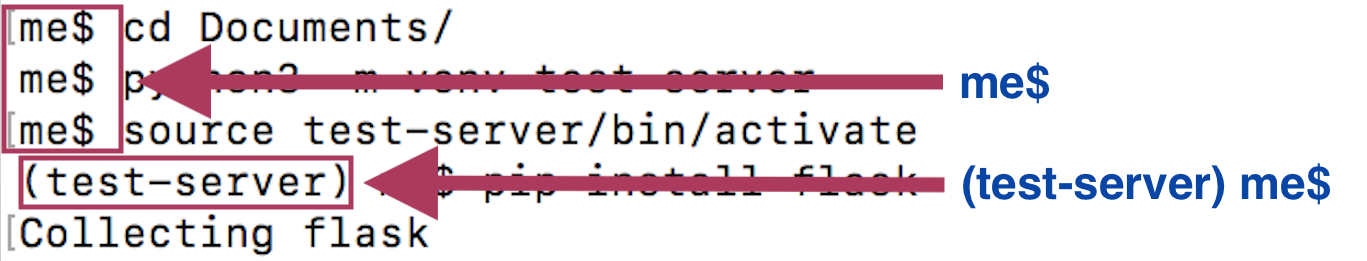
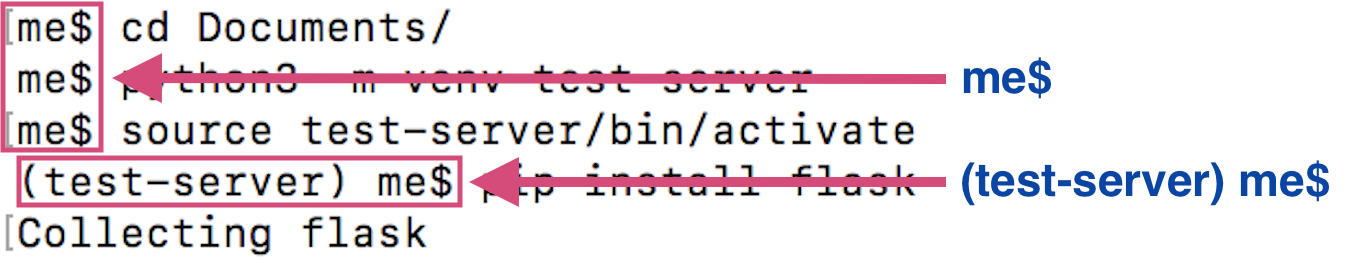
http blog 2 release 1

Changed region(s): [[0.0, 0.0, 0.9832, 0.9808]]

diff --git a/courses.html b/courses.html
@@ -21,10 +21,13 @@ title: Courses
 		<h2>Completed courses</h2>
 	</div>
 		<div class="course">
+			<h3><a href="https://www.codeschool.com/courses/front-end-foundations" target="_blank">Try Docker</a>, Docker introduction, Codeschool (online), completed 5 March 2018</h3>
+			<p class="course-summary">Gives a good introduction to the basics of Docker. How to use images to build Docker containers and configure the images with Dockerfiles in the command line. The next step is to <a href="https://www.codeschool.com/screencasts/build-a-node-app-with-postgres-and-docker">build a Node App with Postgres and Docker</a>.</p>	
+		</div>
+		<div class="course">
 			<h3><a href="https://www.codeschool.com/courses/flying-through-python">Flying Through Python</a>, Python, Codeschool (online), completed 3 April 2018</h3>
-			<p class="course-summary">One of the things I find really useful about Codeschool is the screencasts that you can follow and work through once you have completed the courses. Each one is roughly an hour long and works through a project so you can consolidate all the knowledge that you just learnt in a useful way. The Python one was no exception and within a couple of hours I had built a <a href="https://www.codeschool.com/screencasts/build-a-python-weather-forecast-mailer"> Weather Forecast Mailer</a>, which can be viewed on my <a href="https://github.com/jenjnif">GitHub account</a>.</p>	
-			</div>
-
+			<p class="course-summary">One of the things I find really useful about Codeschool is the screencasts that you can follow and work through once you have completed the courses. Each one is roughly an hour long and works through a project so you can consolidate all the knowledge that you just learnt in a useful way. The Python one was no exception and within a couple of hours I had built a <a href="https://www.codeschool.com/screencasts/build-a-python-weather-forecast-mailer"> Weather Forecast Mailer</a>, which can be viewed on my <a href="https://github.com/jenjnif">GitHub account</a>.</p>
+		</div>
 		<div class="course">
 			<h3><a href="https://www.codeschool.com/courses/front-end-foundations" target="_blank">Front-End Foundations</a>, HTML and CSS, Codeschool (online), completed 3 March 2018</h3>
 			<p class="course-summary"></p>	

diff --git a/index.html b/index.html
@@ -5,7 +5,7 @@ title: Home Page
 	
 
 	<div class="tagline">
-		<h2 class="tagline-text">I am a junior developer digging into new skills and learning each day. I am currently developing my python skills and making websites using JavaScript and html/css and playing with my new toy - a Raspberry Pi. While I am not on my computer I love spending time in the outdoors climbing, surrounded by mountains and wildlife.</h2>
+		<h2 class="tagline-text">I am a junior developer digging into new skills and learning each day. I am currently developing my python skills and making websites using JavaScript and HTML/CSS and playing with my new toy - a Raspberry Pi. While I am not on my computer I love spending time in the outdoors climbing, surrounded by mountains and wildlife.</h2>
 	</div>
 	<div class="blog">
 		{% for post in site.posts limit: 1 %}

diff --git a/_layouts/default.html b/_layouts/default.html
@@ -1,11 +1,11 @@
 <!DOCTYPE html>
 <head>
-   <link rel="stylesheet" href="/styles.css">
-   <meta http-equiv="content-type" content="text/html; charset=utf-8" />
-   <link href="https://fonts.googleapis.com/css?family=Raleway" rel="stylesheet">
-   <title>{{ page.title }}</title>
-
+  <meta http-equiv="content-type" content="text/html; charset=utf-8" />
+  <link href="https://fonts.googleapis.com/css?family=Raleway" rel="stylesheet">
+  <link rel="stylesheet" href="/styles.css">
+  <title>{{ page.title }}</title>
 </head>
+
 <body>
     <header>
       <h1>Jen Jones</h1>

diff --git a/styles.css b/styles.css
@@ -27,7 +27,7 @@ h2 {
 }
 h3 {
 	font-size: 22px;
-	font-weight: 400;
+	font-weight: 700;
 	margin: 0 auto;
 }
 h4 {
@@ -75,9 +75,11 @@ pre {
 	margin: 0 auto 40px auto;
 	padding-bottom: 20px;
 	border-bottom: 1px solid #555555;
+	font-weight: normal;
 }
 .tagline-text {
-	font-weight: 100;
+	font-weight: 200;
+	font-style: normal;
 
 }
 .skills, .course-list {

diff --git a/_posts/2018-03-27-http_connection_blog_part2.md b/_posts/2018-03-27-http_connection_blog_part2.md
@@ -10,7 +10,7 @@ excerpt_image: images/4-http/http-diagram-annotated.JPG
 The second in my series of HTTP request articles walks through how to build a very simple example of an HTTP request to get a better understanding of how they work.
 <!--more-->
 
-HTTP series posts:
+Other HTTP series posts:
 
 1.	<a href="/2018/03/22/http_basics_part1_blog.html">What is an HTTP request and how do basic HTTP requests work?</a>
 
@@ -23,7 +23,7 @@ HTTP series posts:
 <br>
 ### Quick recap
 
-So, let's just quickly recap on how basic HTTP requests work. HTTP GET requests aquire data from the server and send it back to the browser/client:
+So, to quickly recap on how basic HTTP requests work. HTTP GET requests aquire data from the server and send it back to the browser/client:
 
 <p align="center"><img src="/images/4-http/http-diagram-annotated.JPG"
      alt="http diagram" width="90%" /></p>
@@ -37,7 +37,9 @@ So, let's just quickly recap on how basic HTTP requests work. HTTP GET requests 
 <br>
 ### Creating a virtual environment and installing Flask
 
-The first thing I did was to create a virtual environment and install Flask within it so all the dependences can work together but are isolated from other python programmes that I might want to run. Creating this local environment is like a little bubble of programmes and files separated away from the rest of the computer.
+In order to build an example of an HTTP request it is a good idea to create an isolated Python development environment to work in. This will keep it seperate from any other libraries already installed. The environment can then be kept for further development work or easily deleted. Creating this local environment is like a little bubble of programmes and files separated away from the rest of the computer.
+
+I created a virtual environment using the 'venv' module and installed Flask (a microframework for Python which I used to facilitate HTTP requests) within it so all the dependences can work together but are isolated from other python programmes that I might want to run.
 
 Steps on the command line:
 
@@ -63,14 +65,6 @@ Then, to activate the virtual environment in the command line:
 
 This changes the prompt to: (virtualenvironment-name) $
 
-In my case from this:
-
-	me$
-
-to this:
-
-	(test-server) me$
-
 <p align="center"><img src="/images/4-http/prompt-name.png"
      alt="prompt name change" width="70%" /></p>
 
@@ -78,20 +72,19 @@ To install Flask and all it’s dependencies within the virtual environment:
 
 	(test-server) $ pip install flask
 
+<p align="center"><img src="/images/4-http/flaskdownload.png" alt="command to download flask" width="70%" /></p>
+
 <br>
 ### Using Flask
 
-<p align="center"><img src="/images/4-http/flaskdownload.png"
-     alt="command to download flask" width="70%" /></p>
+To set up Flask simply follow these steps which can be found on the <a href="http://flask.pocoo.org/">Flask site</a>:  
 
-Then follow the steps which can be found on the <a href="http://flask.pocoo.org/">Flask site</a>:  
-
-Create a python file - I called mine test-python.py - containing the following:
+Firstly, create a python file - I called mine test-python.py - containing the following:
 
 <p align="center"><img src="/images/4-http/python-file.png"
      alt="Python code closeup" width="70%" /></p>
 
-Create a file containing shell script (I called mine test-shellscsript.sh) containing the file name for your python file:
+Then create a file containing shell script (I called mine test-shellscsript.sh) containing the file name for your python file:
 
 <p align="center"><img src="/images/4-http/shell-script.png"
      alt="shell script closeup" width="70%" /></p>
@@ -110,47 +103,44 @@ The first time I did this it came back with an error:
 
 	-bash: test-shellscript.sh: command not found
 
-This is something I am getting familiar with now as it is often caused by the file permissions. I checked the permissions of the files within the test-server directory to see if the shell file was executable:
+This is something I am getting familiar with now and it is often caused by the file permissions. I checked the permissions of the files within the test-server directory to see if the shell file was executable:
 
 	(test-server) me$ ls -al
 
 <p align="center"><img src="/images/4-http/nonexecutable-permissions.png"
      alt="code to show permissions" width="80%" /></p>
 
-From the output for the test-shellscript.sh file you can see it is not executable as there would be an x in the permissions:
+From the output for the test-shellscript.sh file you can see it is not executable as there would be an 'x' in the permissions.
 
-	-rw-r--r--@  1 me  staff   52 21 Mar 21:37 test-shellscript.sh
-
-In order to change the access permissions I ran a line of code to make the shell file executable. The output below now shows the x for root, user and global permissions:
+In order to change the access permissions I ran a line of code to make the shell file executable:
 
 	(test-server) me$ chmod +x test-shellscript.sh
+
+The output below now shows the an 'x' for root, user and global permissions, meaning they are all executable:
 
 <p align="center"><img src="/images/4-http/executable-permissions-closeup.png"
      alt="code to show permissions" width="80%" /></p>
 
-Then I ran the file again but got the same error!: 
+I ran the file again but got the same error!: 
 
 	(test-server) me$ test-shellscript.sh
 
 	-bash: test-shellscript.sh: command not found
 
-The reason for this is that when you try to run a programme in the shell (bash/the command line) it looks in the path for executables. You can see the paths bash searches by writing the following:
-
-	me$ echo $PATH
-
-	/Library/Frameworks/Python.framework/Versions/3.6/bin:/usr/local/bin:/usr/bin:/bin:/usr/sbin:/sbin
-
+The reason for this is that to run a programme in the shell it looks in the path for executables. For instance when you type the 'ls' command into bash it looks in the path of directories, finds the programme called 'ls' that lives in usr/bin and runs it. You can see the paths bash searches using the command:
+	
+	echo $PATH
 
 <p align="center"><img src="/images/4-http/path.png"
      alt="how to use path" width="80%" /></p>
 
-For instance when you type the ls command into bash it looks in the above path of directories, finds the programme called 'ls' that lives in user/bin and runs it. As you can see the virtual server directory (test-server) is not listed in the path. Unless I add the test-server directory to path or tell bash where to run the shell script from i.e. the test-server, it will come back with an error as bash will not be able to find it.
+As you can see the virtual server directory (test-server) is not listed in the path. Unless I add the test-server directory to path or tell bash where to run the shell script from i.e. the test-server, it will come back with an error as bash will not be able to find it.
 
-I chose to run the shell 'test-shellscript.sh' by telling bash where to find it i.e. the directory I am currently in. To do this add ./ before the command:
+I chose to run the shell 'test-shellscript.sh' by telling bash where to find it i.e. the directory I am currently in. To do this I just added './' before the command:
 
 	(test-server) me$ ./test-shellscript.sh 
 
-The shell script ran with no errors. This executes the python file, binding the application to a port. The port is open, listening for an HTTP request.
+This time the shell script ran without any errors, executing the python file and binding the application to a port. At this point the port is open, listening for an HTTP request.
 
 <br>
 ### Making an http request using curl
@@ -159,6 +149,21 @@ The next step is to make an HTTP request using curl to that port in a new termin
 
 	me$ curl 127.0.0.1:5000 --verbose
 
-This sends an HTTP request over the port. The python script runs and sends back “Hello World”. This can be seen more easily in a browser using the IP address and port.
+This sends an HTTP request over the port. The python script runs and sends back “Hello World”. 
 
-https://www.digitalocean.com/community/tutorials/how-to-install-python-3-and-set-up-a-local-programming-environment-on-ubuntu-16-04
+This can be seen clearer in the graphic below:
+1. Run the shell script. This opens a port and the server is ready and waiting for an HTTP request.
+2. In another bash window (representing the client) we send an HTTP GET request to the open port using curl.
+3. The Python script is run on the server...
+4. ...which sends over the 'Hello World' response.
+
+<p align="center"><img src="/images/4-http/server-running-hello.png"
+     alt="the two sides of the GET request in bash" width="80%" /></p>
+
+The result of the request can be seen more easily in a browser using the IP address and port:
+
+<p align="center"><img src="/images/4-http/browser-hello.png"
+     alt="hello world in browser" width="80%" /></p>
+
+My next HTTP post will walk through how I build a server to deal with my contact form.
+
